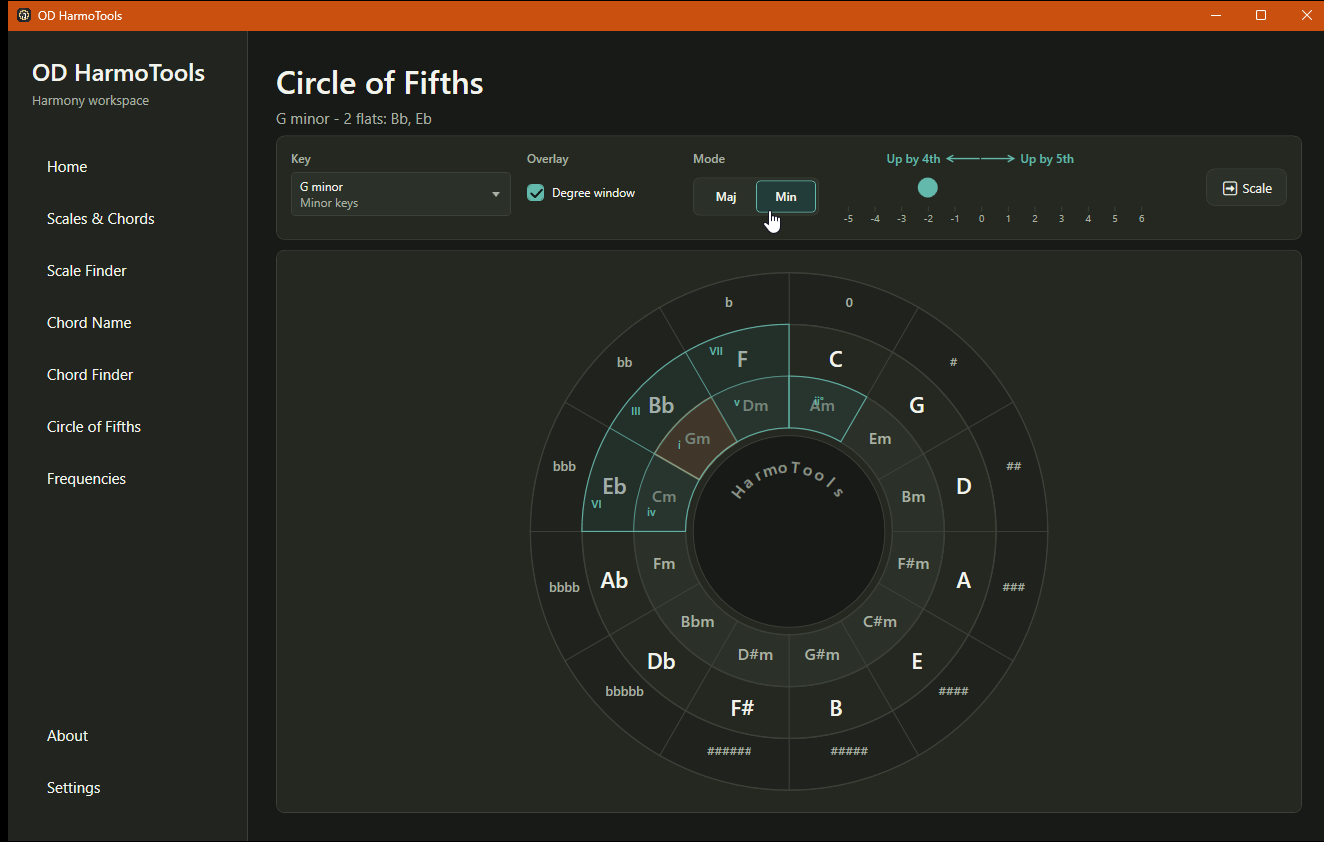
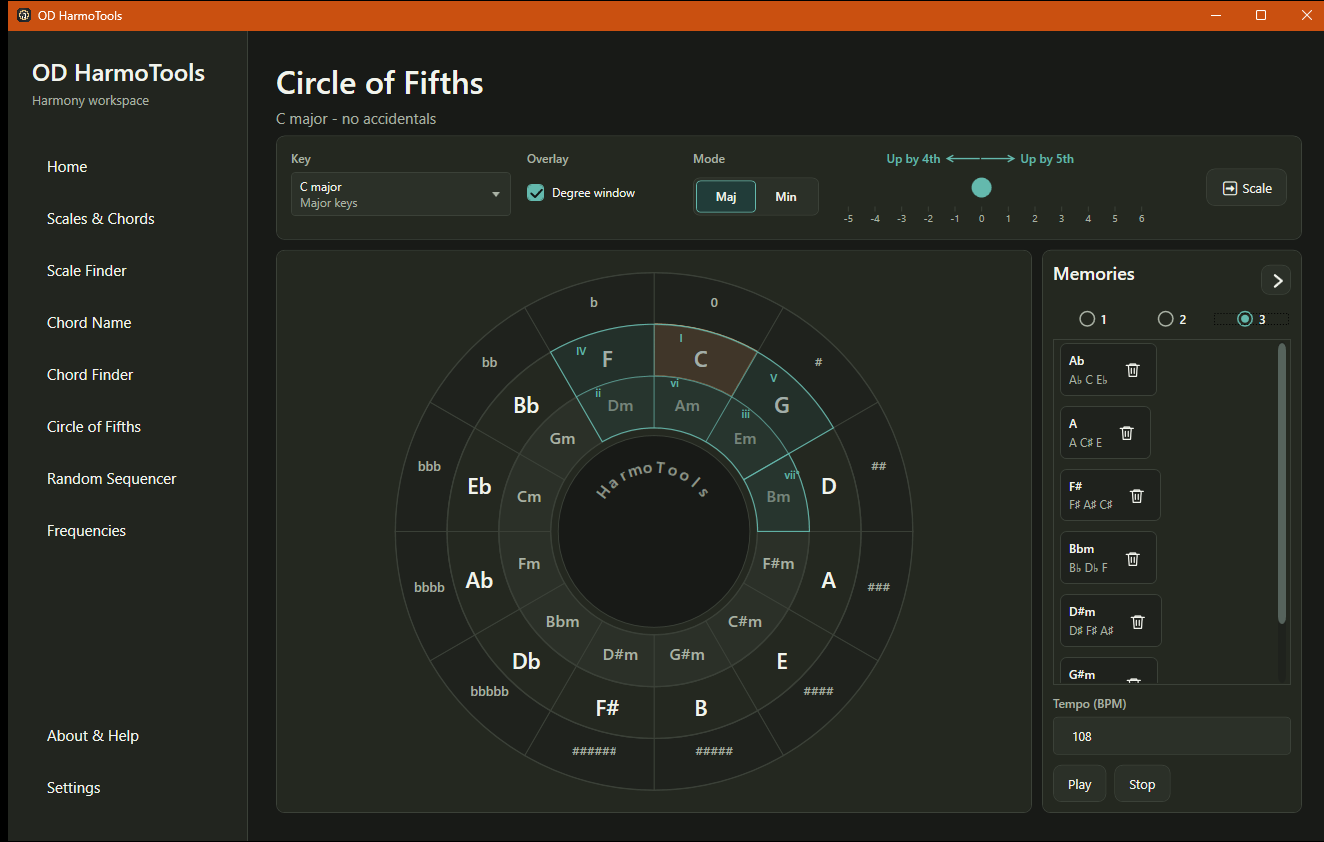
Document circle of fifths progression panel

diff --git a/script.js b/script.js
@@ -17,7 +17,7 @@ const content = {
       ['Scale finder', 'An idea in mind? Find its world.', 'Select your notes, let HarmoTools reveal candidate scales and open the ones that deserve your ear.', 'Scale finder by selected notes', 'Find a tonal colour from your notes.'],
       ['Chord name', 'From symbol to sound, with no detour.', 'Enter a chord and inspect its material: notes, keyboard voicing and harmonic identity. Perfect for checking an instinct or enriching a progression.', 'A chord symbol entered in OD HarmoTools', 'Read a chord symbol and visualise its notes.'],
       ['Chord finder', 'Play the notes. Let the chord speak.', 'The keyboard becomes a harmony detector: possible names, inversions and spellings appear clearly to speed up your analysis.', 'Chord finder from played notes', 'Recognise a chord from the keyboard.'],
-      ['Circle of fifths', 'The map that connects every key.', 'See key signatures, relative minors and degrees at a glance. Click, listen and change mode: the circle becomes a true musical navigation tool.', 'Interactive circle of fifths in OD HarmoTools', 'Explore the interactive circle of fifths.'],
+      ['Circle of fifths', 'The map that connects every key.', 'See key signatures, relative minors and degrees at a glance. Click, listen and change mode, then open the collapsible side panel to build a chord progression directly from the circle.', 'Interactive circle of fifths with a collapsible chord-progression panel in OD HarmoTools', 'Explore the circle of fifths and build a chord progression from its side panel.'],
       ['Frequencies', 'Every note has its precision.', 'Connect note name, octave and frequency instantly. A dependable reference for synthesis, tuning and the details that matter.', 'Note frequency calculator', 'Exact frequencies for every note.'],
       ['Ranges', 'Put your ideas in the right register.', 'Compare frequency ranges and instrumental tessituras to write with greater accuracy, from the lowest notes to the highest.', 'Instrument ranges and frequency bands', 'Visualise instrumental ranges.'],
       ['Your favourites', 'Your scales, ready whenever you are.', 'Keep the worlds that inspire you and return to them in one move. Your workspace organises itself around your own tonal palette.', 'Home page with favourite scales', 'Keep favourite tonal colours within reach.'],
@@ -40,7 +40,7 @@ const content = {
       ['Recherche de gamme', 'Une idée en tête ? Trouvez son univers.', 'Sélectionnez vos notes, laissez HarmoTools révéler les gammes candidates et ouvrez immédiatement celles qui méritent votre oreille.', 'Recherche de gammes par notes sélectionnées', 'Retrouver une couleur tonale à partir de ses notes.'],
       ['Nom d’accord', 'Du symbole au son, sans détour.', 'Entrez un accord et inspectez sa matière : notes, disposition sur le clavier et identité harmonique. Idéal pour vérifier une intuition ou enrichir une progression.', 'Saisie d’un symbole d’accord dans OD HarmoTools', 'Lire un symbole d’accord et visualiser ses notes.'],
       ['Recherche d’accord', 'Jouez les notes. Laissez parler l’accord.', 'Le clavier devient un détecteur d’harmonies : noms possibles, renversements et orthographes se présentent clairement pour accélérer l’analyse.', 'Recherche d’accords à partir de notes jouées', 'Reconnaître un accord depuis le clavier.'],
-      ['Cercle des quintes', 'La carte qui relie toutes vos tonalités.', 'Visualisez les armures, relatives mineures et degrés d’un seul regard. Cliquez, écoutez, basculez de mode : le cercle devient un vrai outil de navigation musicale.', 'Cercle des quintes interactif dans OD HarmoTools', 'Explorer le cercle des quintes interactif.'],
+      ['Cercle des quintes', 'La carte qui relie toutes vos tonalités.', 'Visualisez les armures, relatives mineures et degrés d’un seul regard. Cliquez, écoutez, basculez de mode, puis ouvrez le panneau latéral repliable pour créer une progression d’accords directement depuis le cercle.', 'Cercle des quintes interactif avec panneau repliable de progression d’accords dans OD HarmoTools', 'Explorer le cercle des quintes et créer une progression d’accords depuis son panneau latéral.'],
       ['Fréquences', 'Chaque note a sa précision.', 'Reliez instantanément nom, octave et fréquence. Un repère fiable pour la synthèse, l’accordage et tous les détails qui comptent.', 'Calcul des fréquences de notes', 'Des fréquences exactes pour chaque note.'],
       ['Tessitures', 'Placez vos idées dans le bon registre.', 'Comparez les plages de fréquences et les tessitures instrumentales pour écrire avec plus de justesse, du grave au très aigu.', 'Tessitures et plages de fréquences instrumentales', 'Visualiser les tessitures instrumentales.'],
       ['Vos favoris', 'Vos gammes, toujours prêtes.', 'Conservez les univers qui vous inspirent et revenez-y d’un geste. Votre espace s’organise autour de votre propre palette musicale.', 'Page d’accueil avec les gammes favorites', 'Garder ses couleurs tonales préférées à portée de main.'],
